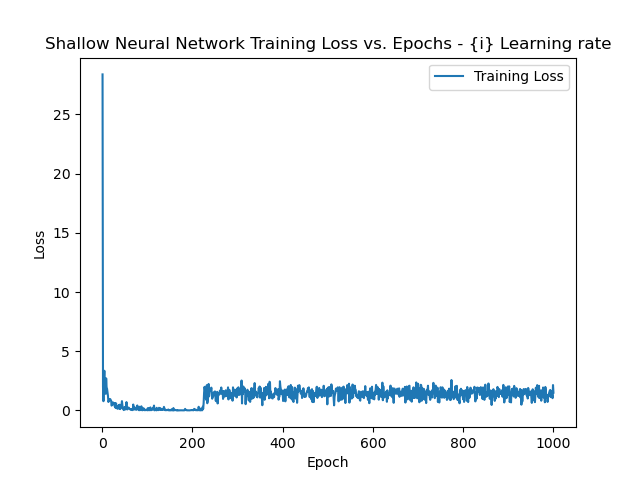
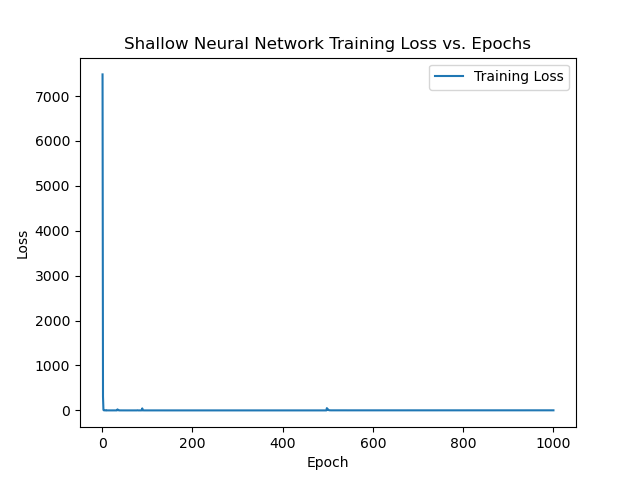
Fixing figs

diff --git a/task1.py b/task1.py
@@ -82,8 +82,8 @@ class DeepCorrectorMLP(nn.Module):
 learning_rates = [1, 1e-1, 1e-2, 1e-3, 1e-4]
 for lr in learning_rates:
     # Model, Loss, Optimizer
-    # model = DeepCorrectorMLP(num_hidden_nodes = 128)
-    model = MLP()
+    model = DeepCorrectorMLP(num_hidden_nodes = 128)
+    # model = MLP()
     criterion = nn.MSELoss()
     optimizer = optim.Adam(model.parameters(), lr=lr)
     
@@ -136,17 +136,17 @@ for lr in learning_rates:
     plt.plot(np.linspace(1, epochs, epochs), np.log(train_losses), label='Log Training Loss')
     plt.xlabel('Epoch')
     plt.ylabel('Log(Loss)')
-    plt.title('Shallow Neural Network Logarithmic Training Loss vs. Epochs - {i} Learning rate')
+    plt.title('Deep Neural Network Logarithmic Training Loss vs. Epochs')
     plt.legend()
-    plt.savefig(f'Figures/task1.3/shallow-network-128-nodes-log-loss-lr={lr}.png')
+    plt.savefig(f'Figures/task1.3/Deep-network-128-nodes-log-loss-lr={lr}.png')
     plt.close()
     
     plt.plot(np.linspace(1, epochs, epochs), train_losses, label='Training Loss')
     plt.xlabel('Epoch')
     plt.ylabel('Loss')
-    plt.title('Shallow Neural Network Training Loss vs. Epochs - {i} Learning rate')
+    plt.title('Deep Neural Network Training Loss vs. Epochs')
     plt.legend()
-    plt.savefig(f'Figures/task1.3/shallow-network-128-nodes-loss-lr={lr}.png')
+    plt.savefig(f'Figures/task1.3/Deep-network-128-nodes-loss-lr={lr}.png')
     plt.close()
     
     # Plot results
@@ -154,9 +154,9 @@ for lr in learning_rates:
     plt.plot(t, q_target, 'r-', label='Target')
     plt.plot(t, q_real, 'b--', label='PD Only')
     plt.plot(t, q_real_corrected, 'g:', label='PD + MLP Correction')
-    plt.title(f'Shallow Neural Network Trajectory Tracking with and without MLP Correction - 128 Nodes - {lr} Learning rate')
+    plt.title(f'Deep Neural Network Trajectory Tracking with and without MLP Correction - 128 Nodes - {lr} Learning rate')
     plt.xlabel('Time [s]')
     plt.ylabel('Position')
     plt.legend()
-    plt.savefig(f'Figures/task1.3/shallow-network-128-nodes-lr={lr}.png')
+    plt.savefig(f'Figures/task1.3/Deep-network-128-nodes-lr={lr}.png')
     plt.close()
